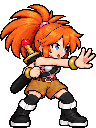
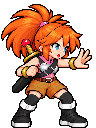
art(player): restore previous approved cast pose

diff --git a/tools/art/build_player_combat_revision.py b/tools/art/build_player_combat_revision.py
@@ -19,7 +19,7 @@ SPECS = {
     'attack_1': ('2026-10-29_aclaire_attack_1_clean_source.png', 2, 4, .252, 192),
     'attack_2': ('2026-10-29_aclaire_attack_2_production_source.png', 2, 4, .248, 192),
     'attack_3': ('2026-10-29_aclaire_attack_3_production_source.png', 3, 5, .252, 192),
-    'cast': ('2026-10-29_aclaire_cast_right_hand_source.png', 2, 4, .252, 96),
+    'cast': ('2026-10-29_aclaire_cast_compact_source.png', 2, 4, .252, 96),
     'hurt': ('2026-10-28_aclaire_hurt_proportions_v2_review.png', 3, 3, 124/741, 96),
     'dead': ('2026-10-29_aclaire_dead_proportions_v3_review.png', 3, 6, 124/474, 96),
 }

diff --git a/art/reports/phase_b.md b/art/reports/phase_b.md
@@ -270,3 +270,7 @@ Built-in imagegen only. All source PNGs are versioned in `art/concept/` with the
 ### Cast right-hand follow-up — 29 October 2026
 
 At Pinz's request, all four Cast frames now use the anatomical right (near-side) arm extending across the chest, with the other fist held close to the torso. The pose remains compact inside 96×128, with the hand forward from frame 1. Head/body scale and animation timing are unchanged. Source: `art/concept/2026-10-29_aclaire_cast_right_hand_source.png`; built-in imagegen prompt: switch casting to the near-side right arm, keep a natural compact forward palm, preserve the head/body/legs, four-frame layout and transparency. A second targeted pass corrected the last frame to use the same arm. Validator and both current atlas tests pass after rebuilding. Only the four Cast production frames and their packed pixels changed.
+
+### Cast cancellation — 29 October 2026
+
+Pinz cancelled the right-hand revision. Production Cast is restored to the original compact source (2026-10-29_aclaire_cast_compact_source.png), exactly as shipped in c82edd6. The right-hand source remains an unused study. Validator and current atlas checks pass.
